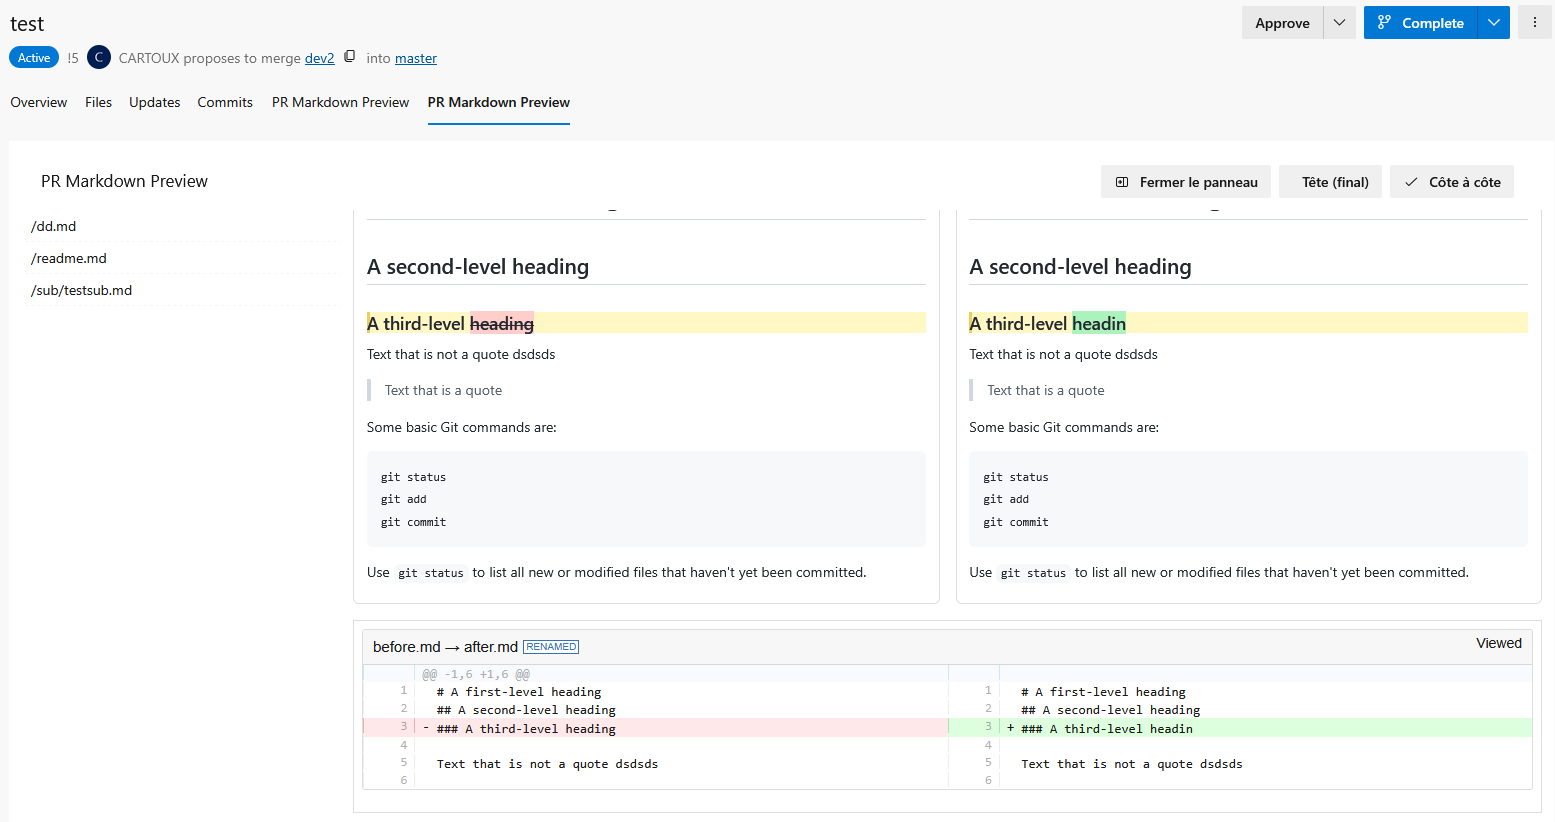
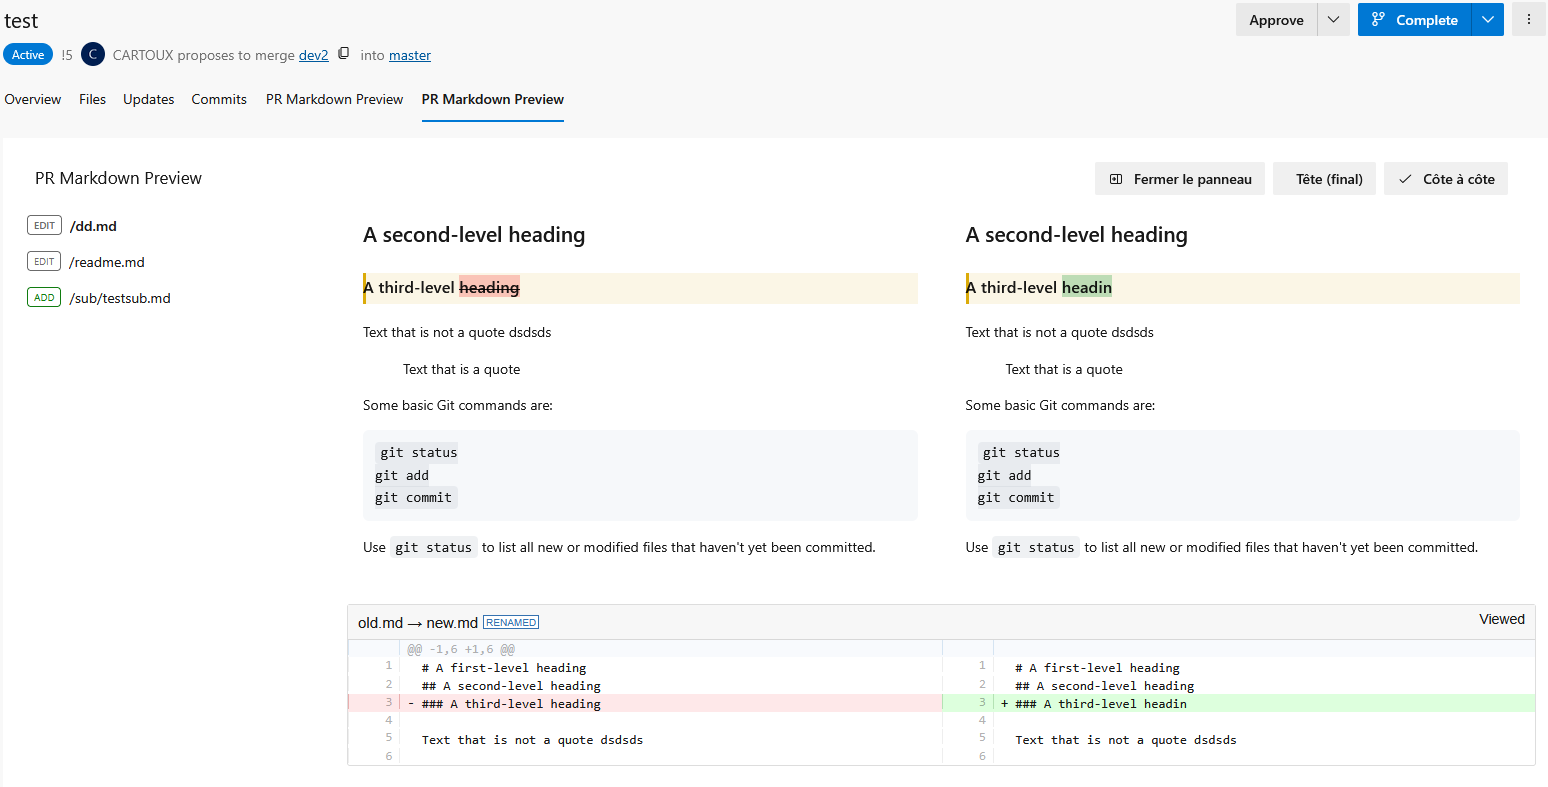
imgs with status

diff --git a/Readme.md b/Readme.md
@@ -11,6 +11,6 @@ Ajoute un onglet de comparaison des fichiers Markdown modifiés en mode Preview.
 
 ![Demo](img/mdcompare-demo.png)
 
-![Side By Side](img/mdcompare-side.png)
+![Side By Side](img/mdcompare-demo2.png)
 
-![Demo 2](img/mdcompare-demo-inline.png)
+![Demo 2](img/mdcompare-demo3.png)
